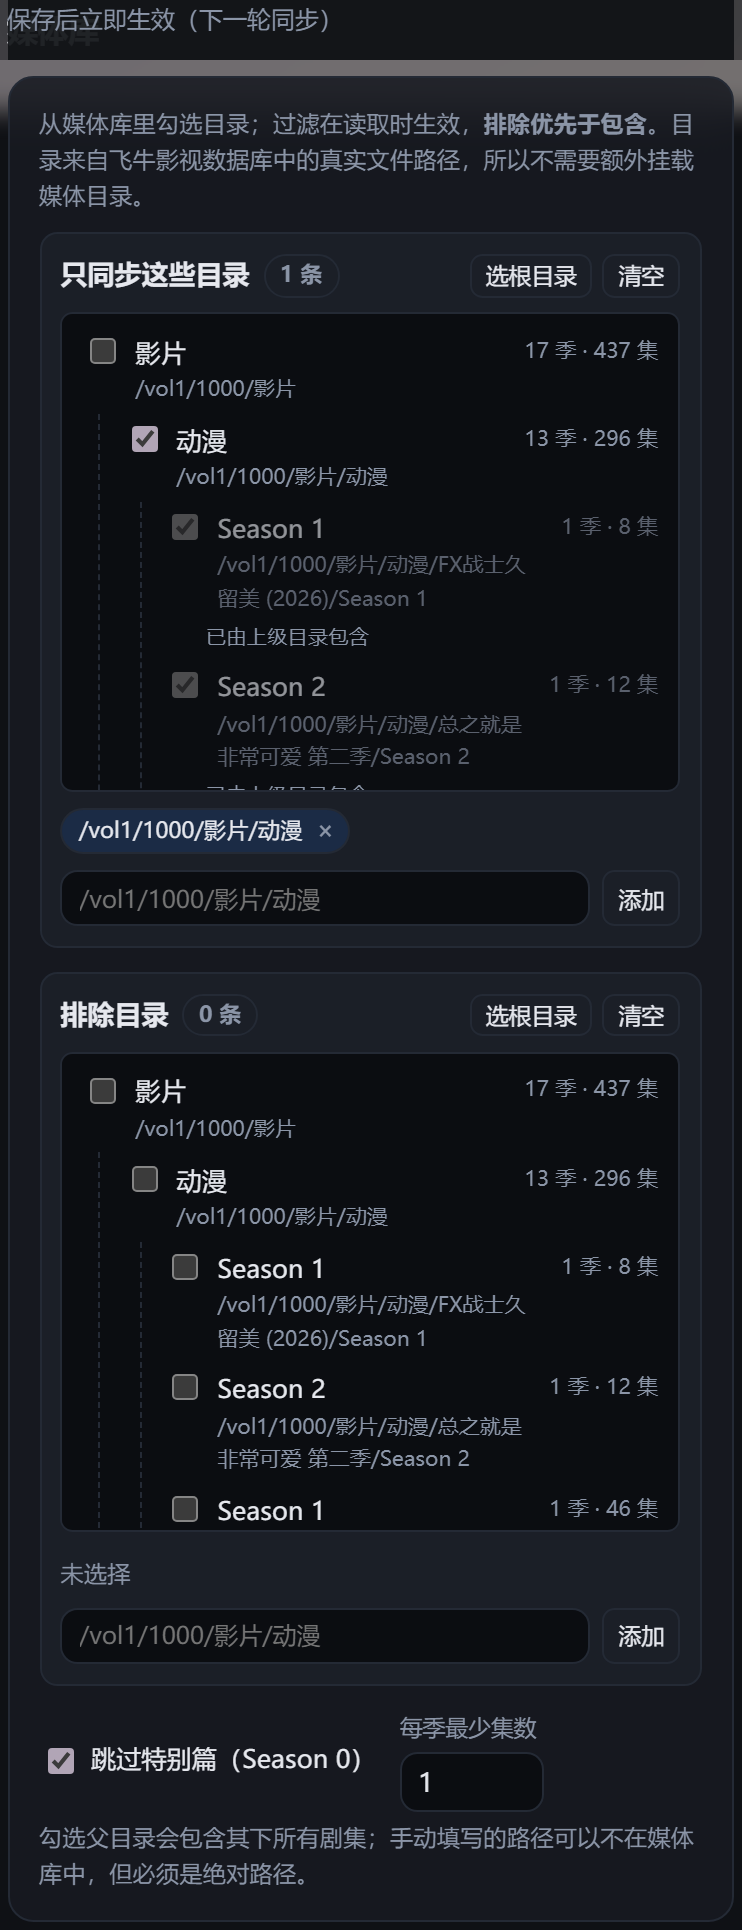
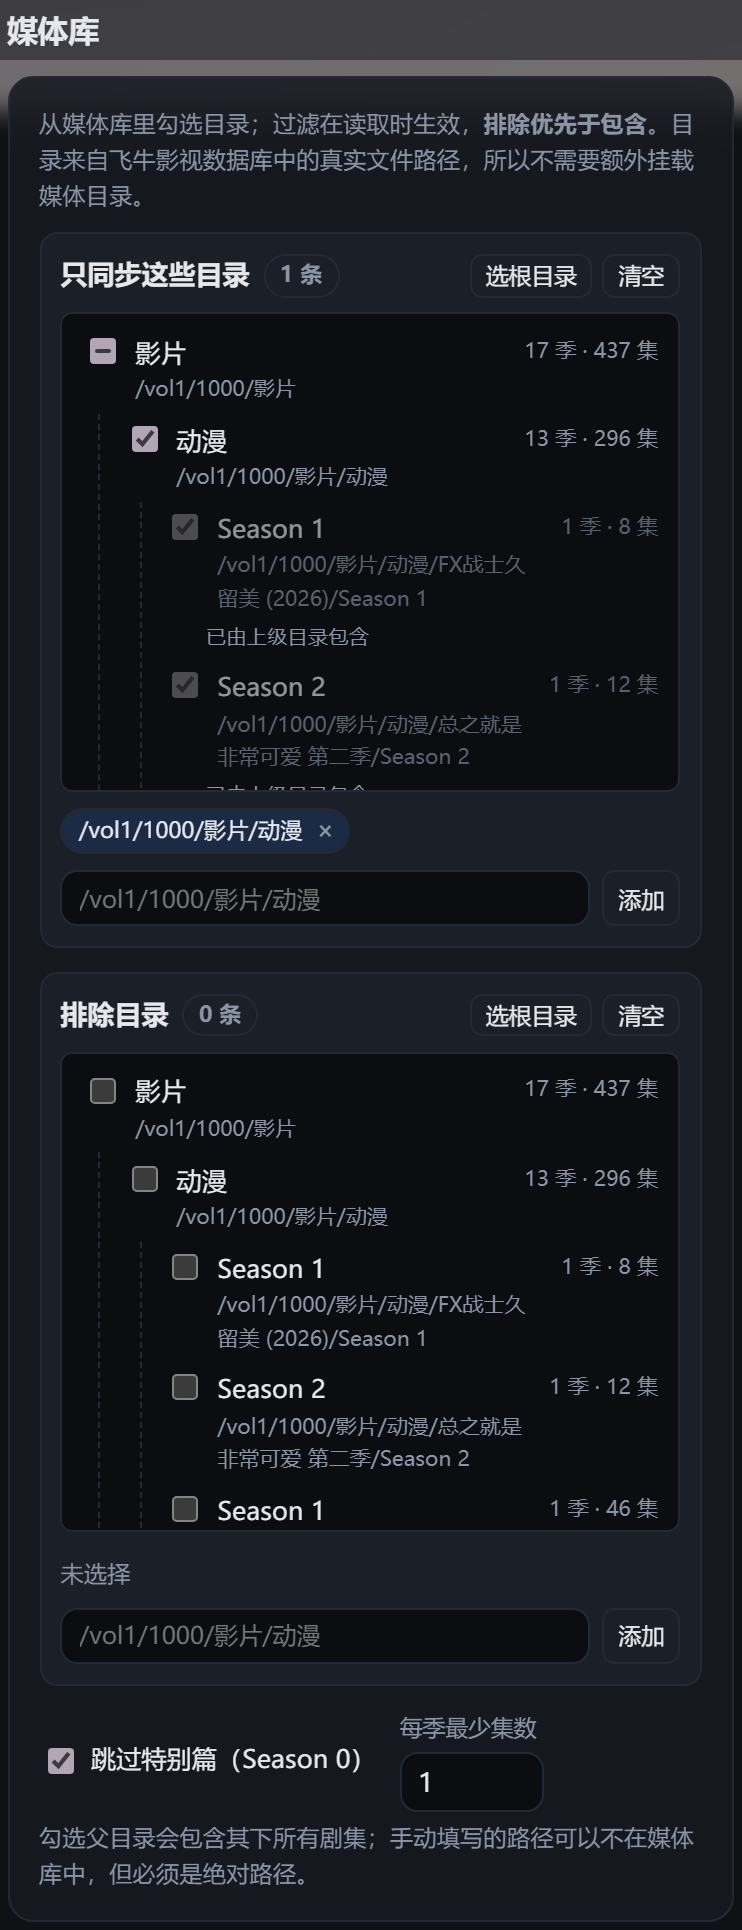
docs: 媒体库目录可视化选择的验证记录与截图
- README/API 文档补充目录树 payload 与界面说明
- 验证记录新增目录选择实测（勾选/半选/手动路径/保存/移动端）
- 测试总数更新为 160；.dev 留存 ui-verify-library.js

Changed region(s): [[0.0, 0.0, 0.9919, 0.0311], [0.124, 0.1554, 0.155, 0.1865]]

diff --git a/README.zh-CN.md b/README.zh-CN.md
@@ -113,9 +113,11 @@ docker compose logs -f
 | **映射** | 新增/覆盖映射、按关键词搜索 Bangumi 条目并回填、删除映射（同时清该区间推送记录） |
 | **账号** | 令牌状态与过期时间、复制授权命令 |
 | **日志** | 最近 400 行实时日志（2 秒刷新） |
-| **设置** | **在线修改同步/匹配/目录/用户**（存状态库、立即生效）、**飞牛用户勾选**、**服务端保存的外观与背景**、**Bangumi API 获取指引** |
+| **设置** | **在线修改同步/匹配/目录/用户**（存状态库、立即生效）、**媒体库目录可视化勾选**、**飞牛用户勾选**、**服务端保存的外观与背景**、**Bangumi API 获取指引** |
 
 设置页里的修改会作为「运行时覆盖」存进状态库，**不需要重启容器**；点「恢复 config.toml 默认」可撤销。
+**媒体库目录**直接读取飞牛影视里的真实文件夹树：勾选父目录即包含其下所有剧集，支持排除目录、
+显示每目录季/集数、手动补充路径，无需额外挂载媒体目录。
 
 **外观（服务器端保存，多设备共享）**：跟随系统/浅色/深色主题、6 种主题色 + 自定义取色、
 85%–125% 字号、舒适/紧凑密度；背景支持**上传图片（先裁剪）/ 图片 URL / 4 个内置渐变预设**，
@@ -152,6 +154,10 @@ docker compose logs -f
 上传背景时的裁剪窗口（拖动 / 缩放 / 比例 / 实时预览）：
 
 ![背景裁剪](docs/screenshots/crop-modal.png)
+
+媒体库目录可视化选择（按真实文件夹树勾选，带季/集数统计）：
+
+![媒体库目录选择](docs/screenshots/settings-library-dark.png)
 
 主题支持「跟随系统 / 浅色 / 深色」，另有 6 种主题色 + 自定义取色、85%–125% 字号、舒适/紧凑密度。
 **外观与背景保存在服务器**，多设备共享；背景可上传、填 URL 或使用 4 个内置渐变预设，
@@ -350,7 +356,7 @@ docker build --build-arg BASE_IMAGE=docker.fnnas.com/library/python:3.12-slim \
 ```bash
 python -m venv .venv && . .venv/bin/activate     # Windows: .venv\Scripts\activate
 pip install -e ".[dev]"
-python -m pytest            # 155 个用例，全部离线（含模拟 fnOS 库）
+python -m pytest            # 160 个用例，全部离线（含模拟 fnOS 库）
 ruff check src tests
 ```
 
@@ -367,7 +373,7 @@ src/bangumi_syncer/
   state.py         SQLite 状态（令牌/映射/推送/候选/运行）
   server.py        只读状态页 + JSON
   cli.py           命令行
-tests/             155 个离线用例（真实 schema 的模拟库 + 假 tracker）
+tests/             160 个离线用例（真实 schema 的模拟库 + 假 tracker）
 docs/              架构、匹配算法、飞牛库结构
 ```
 

diff --git a/docs/api.md b/docs/api.md
@@ -134,12 +134,21 @@ Bangumi 侧失败时返回 `502`。
   },
   "accounts": ["main"],
   "source": {"users": [{"key": "...", "name": "wwb051221", "plays": 3, "finished": 0}],
-             "seasons": 13, "episodes": 296, "include_paths": ["/vol1/1000/影片/动漫"]},
+             "seasons": 13, "episodes": 296, "include_paths": ["/vol1/1000/影片/动漫"],
+             "folders": {"roots": [{"path": "/vol1/1000/影片", "name": "影片",
+                         "series": 17, "episodes": 437,
+                         "children": [{"path": "/vol1/1000/影片/动漫", "name": "动漫",
+                                       "series": 13, "episodes": 296, "children": []}]}],
+                         "series": 17, "episodes": 437}},
   "source_error": null
 }
 ```
 
 `source` 是直接从飞牛影视数据库读到的**真实用户列表**（缓存 60 秒），失败时 `source_error` 给出原因。
+
+`source.folders` 是给设置页目录选择器用的目录树：由剧集文件路径聚合而来，单链目录会被折叠，
+每个节点带 `series`（季数）与 `episodes`（集数），`roots` 可有多棵。目录树使用**未过滤**的全量
+快照，因此当前被排除的库也能重新勾选；读取失败时会退化为已过滤视图。
 
 ### `PUT /api/settings`
 
@@ -167,7 +176,7 @@ Bangumi 侧失败时返回 `502`。
 
 ### `GET /api/source-users?refresh=1`
 
-返回媒体库用户列表（`refresh=1` 跳过 60 秒缓存）。与 `/api/settings` 里的 `source` 结构相同。
+返回媒体库用户列表与目录树（`refresh=1` 跳过 60 秒缓存）。与 `/api/settings` 里的 `source` 结构相同。
 
 ## 外观接口（服务器端保存）
 

diff --git a/README.md b/README.md
@@ -136,8 +136,10 @@ Open `http://<nas>:8099/` after the container starts:
 - **Accounts** — token state and expiry, copy-paste authorisation command.
 - **Logs** — last 400 log lines, refreshed every 2 s.
 - **Settings** — edit sync/match/library/user settings online (persisted in the state DB, applied
-  on the next cycle **without a restart**), pick which fnOS users to sync, plus a step-by-step
-  Bangumi API guide.
+  on the next cycle **without a restart**). The media-library filter is a **visual folder tree**
+  built from the real episode paths in the fnOS database: tick a parent folder to include everything
+  below it, exclude subfolders, see season/episode counts per folder, and add paths manually.
+  A step-by-step Bangumi API guide is included too.
 - **Appearance** (stored server-side, shared by every device) — auto/light/dark theme, six accent
   colours plus a custom picker, 85–125% font scale, comfortable/compact density; custom background
   via **upload (with crop dialog) / image URL / four built-in gradient presets** with opacity, blur
@@ -194,7 +196,7 @@ Exit codes: `0` ok, `1` run failed, `2` config error, `3` re-authorisation neede
 
 ```bash
 pip install -e ".[dev]"
-python -m pytest        # 155 offline tests (synthetic fnOS DB + fake tracker)
+python -m pytest        # 160 offline tests (synthetic fnOS DB + fake tracker)
 ruff check src tests
 ```
 

diff --git a/CHANGELOG.md b/CHANGELOG.md
@@ -7,6 +7,10 @@
 
 ### 新增
 
+- **媒体库目录可视化选择**：设置页用真实文件夹树替换两个 textarea。目录由飞牛数据库中的剧集路径
+  聚合（单链折叠、按目录统计季/集），支持父目录勾选包含全部子目录、排除优先、半选状态、
+  手动补充/移除路径；目录树使用未过滤的全量快照，当前被排除的库也能重新勾选。
+  后端新增 `folders.py` 与对应单测。
 - **背景上传支持裁剪与实时预览**：选择图片后弹出裁剪窗口，可拖动定位、滚轮/滑杆缩放、
   选择 16:9 / 21:9 / 4:3 / 1:1 比例；右侧实时显示裁剪结果与「页面效果」预览（含遮罩）。
   输出 JPEG（最长边 2560px，质量 0.9）后上传；已保存的背景可「重新裁剪」。
@@ -51,7 +55,7 @@
 
 ### 测试
 
-- 新增外观相关用例（预置/夹取/背景魔数/落盘/URL 校验/配色接口），测试总数 155。
+- 新增外观相关用例（预置/夹取/背景魔数/落盘/URL 校验/配色接口），测试总数 160。
 - 新增 17 个用例：CLI 端到端（`dump`/`status`/`map`/`review`/`run --once` 与退出码）、
   Bangumi tracker 请求构造（类型过滤、分页、收藏 POST/PATCH、章节标记、404）、
   `accept_types` 透传。共 103 个离线用例。

diff --git a/docs/architecture.md b/docs/architecture.md
@@ -155,4 +155,4 @@ class JellyfinSource(SourceAdapter):
 * `test_cli.py` 直接调 `cli.main([...])` 跑 `dump` / `status` / `map` / `review` / `run --once`，
   验证退出码与输出（不联网）。
 * 覆盖：快照解析、过滤、比例判定、区间映射、幂等、远端核对、收藏完成、鉴权失败、限速重试。
-* 全部离线（155 个用例，约 17 秒）。
+* 全部离线（160 个用例，约 17 秒）。
